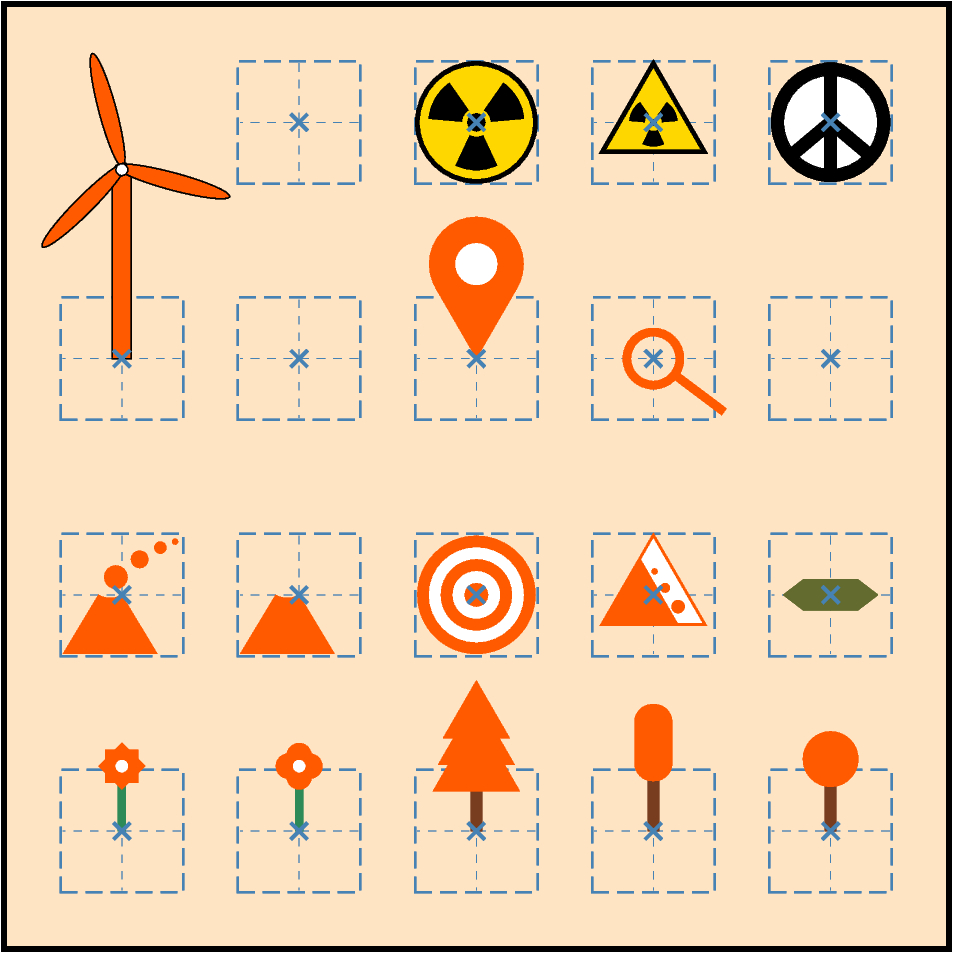
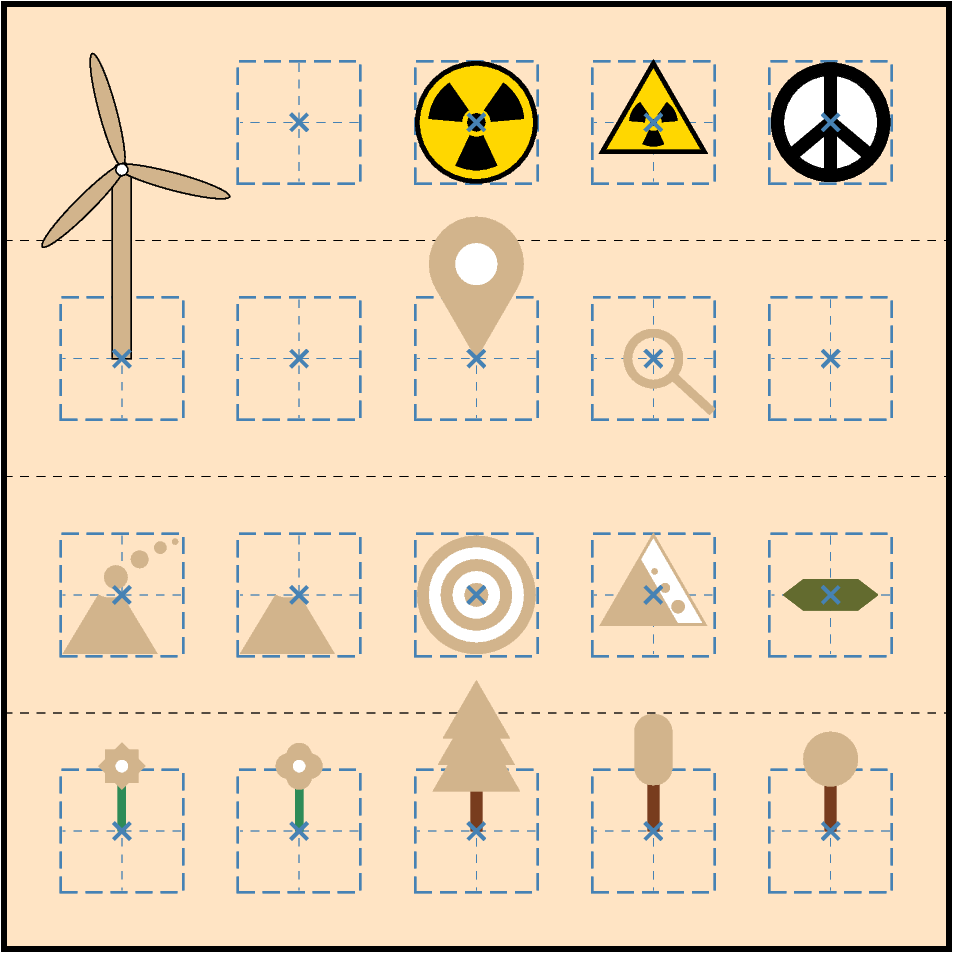
Change symbol color in example plot

diff --git a/000_general_stuff/01_custom_symbols/custom_symbols.py b/000_general_stuff/01_custom_symbols/custom_symbols.py
@@ -31,7 +31,7 @@
 import pygmt as gmt
 
 size = 8
-color_hl = "255/90/0"  # highlight -> orange
+color_hl = "tan" # "255/90/0"  # highlight -> orange
 x_mark = [-3, 0, 3, 6, -6, -3, 0, 3, 6, -6, -3, 0, 3, 6, -6, -3, 0, 3, 6]
 y_mark = [6, 6, 6, 6, 2, 2, 2, 2, 2, -2, -2, -2, -2, -2, -6, -6, -6, -6, -6]
 
@@ -68,4 +68,4 @@ fig.plot(x=6, y=-6, style="ktree_circle_yf.def/1c", fill=color_hl)
 fig.plot(x=x_mark, y=y_mark, style="x0.2c", fill="steelblue")
 
 fig.show()
-# fig.savefig(fname="custom_symbols.png")
+fig.savefig(fname="custom_symbols.png")
